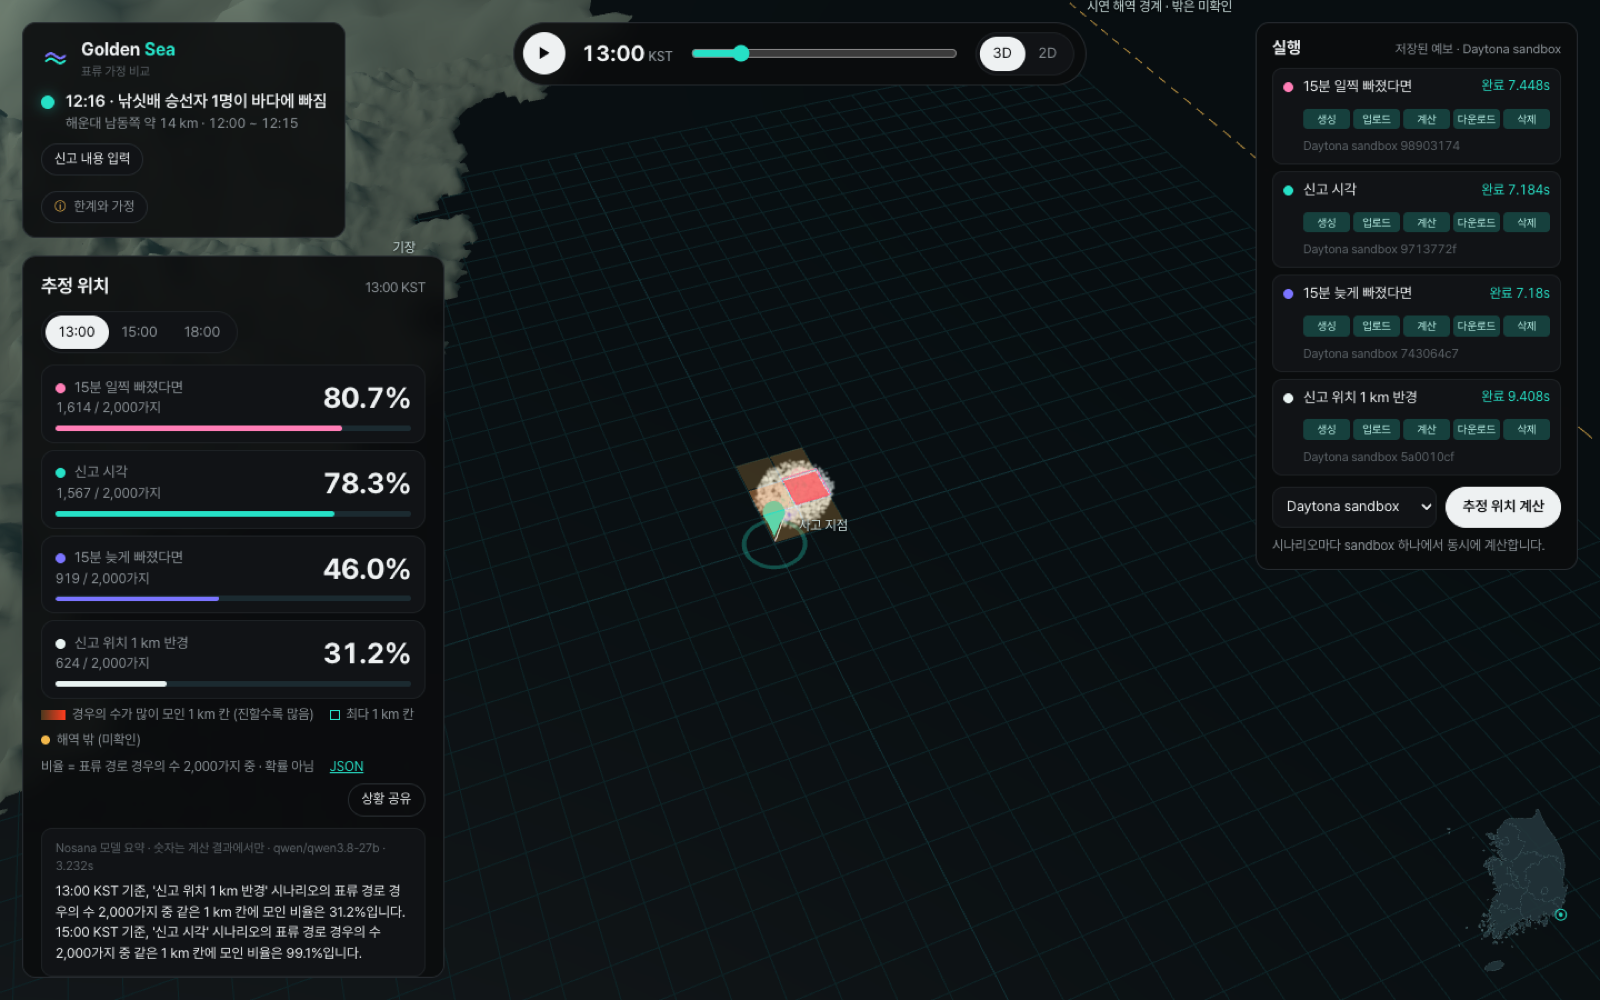
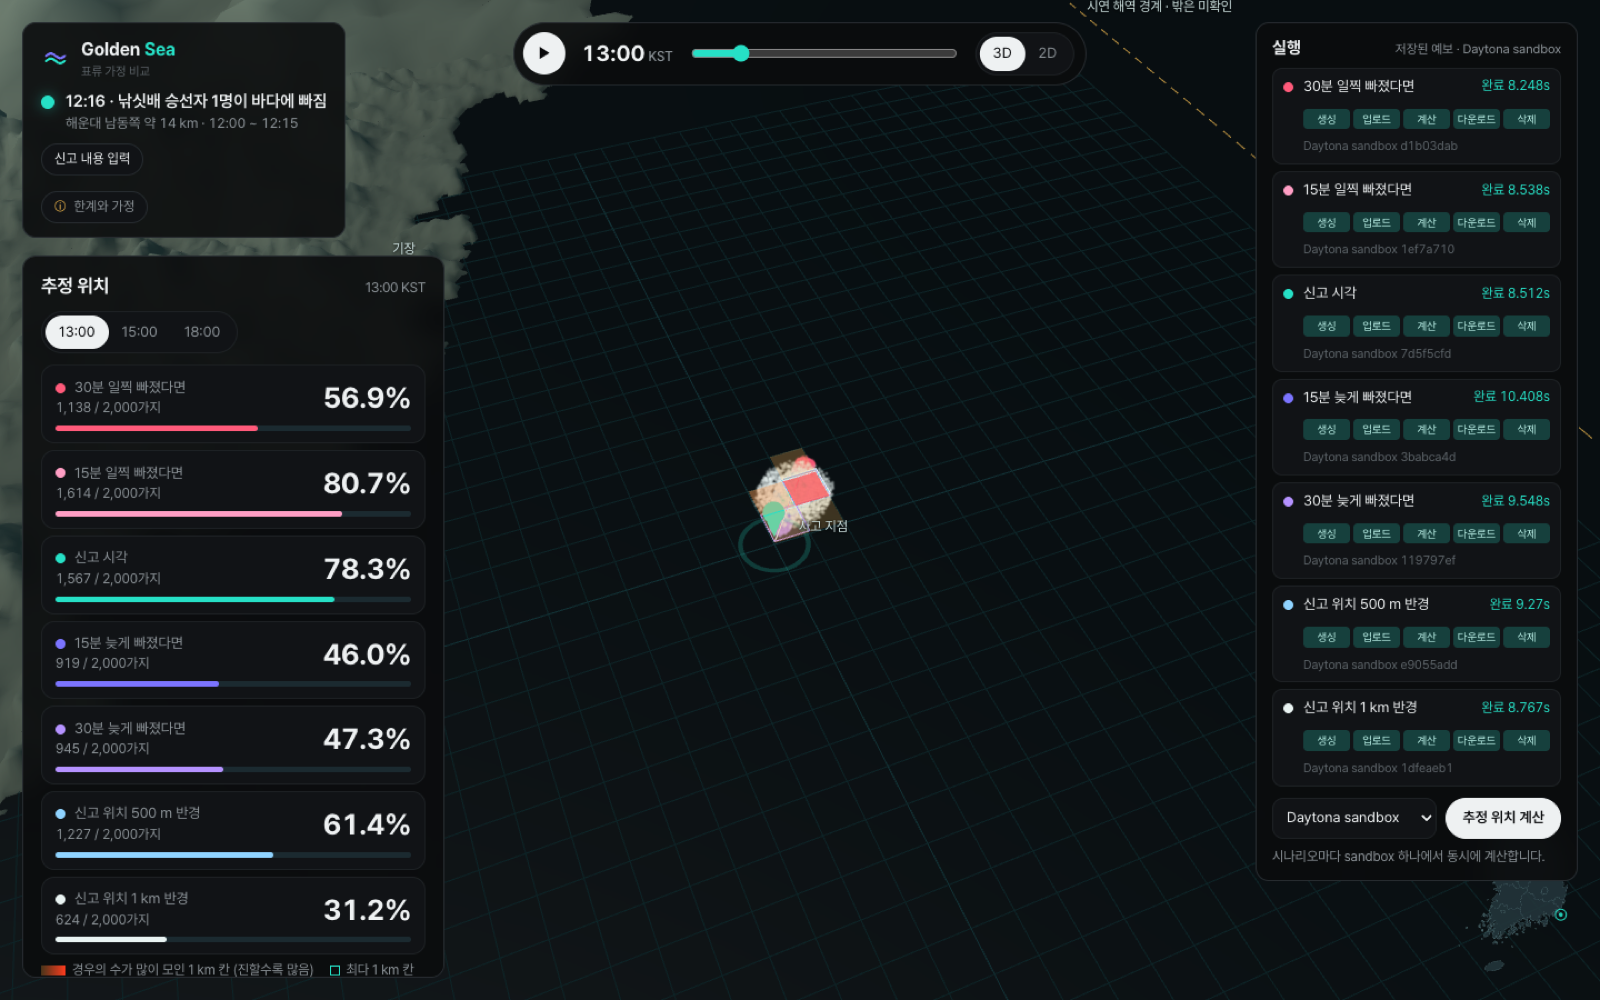
feat: seven cases (fall time -30/-15/0/+15/+30 min, radius 250/500/1000 m) in seven Daytona sandboxes

diff --git a/web/index.html b/web/index.html
@@ -66,10 +66,10 @@ section{border-top:1px solid var(--rule);padding:96px 0}
   <div class="meta"><span><b>부산 앞바다</b> 가상 사고</span><span><b>Daytona</b> sandbox</span><span><b>Nosana</b> 요약</span><span>Daytona HackSprint Seoul · 2026.10.18</span></div>
   <h1>해상 실종자<br>위치 추정</h1>
   <div class="intro">
-    <p>신고 하나로 표류 위치를 여러 경우로 계산합니다. 빠진 시각 ±15분과 위치 반경 1 km를 함께 봅니다.</p>
+    <p>신고 하나로 표류 위치를 일곱 가지 경우로 계산합니다. 빠진 시각 ±30분과 위치 반경 1 km까지 함께 봅니다.</p>
     <div class="cta"><a class="btn" href="app.html">데모 열기 →</a><a class="link" href="https://github.com/currenjin/2026-10-daytona-hack-sprint">GitHub에서 코드 보기</a></div>
   </div>
-  <figure><img src="assets/hero.png" alt="Golden Sea 화면: 부산 앞바다 가상 사고의 세 시나리오 비교"><figcaption>해운대 남동쪽 가상 신고, 1시간 뒤 결과. Daytona sandbox 4개에서 계산하고 Nosana 모델이 요약했습니다.</figcaption></figure>
+  <figure><img src="assets/hero.png" alt="Golden Sea 화면: 부산 앞바다 가상 사고의 세 시나리오 비교"><figcaption>해운대 남동쪽 가상 신고, 1시간 뒤 결과. Daytona sandbox 7개에서 계산하고 Nosana 모델이 요약했습니다.</figcaption></figure>
 </div>
 
 <section id="problem"><div class="wrap">
@@ -88,19 +88,22 @@ section{border-top:1px solid var(--rule);padding:96px 0}
   <div class="label">방법</div>
   <div class="how">
     <div><div class="k">01</div><h3>신고 입력</h3><p>위치와 빠진 시각 범위</p></div>
-    <div><div class="k">02</div><h3>Daytona sandbox 4개</h3><p>시각 ±15분, 위치 반경 1 km를 동시에 계산. 각 6~10초</p></div>
+    <div><div class="k">02</div><h3>Daytona sandbox 7개</h3><p>빠진 시각 5가지, 위치 반경 3가지를 동시에 계산. 각 약 8~10초</p></div>
     <div><div class="k">03</div><h3>비교 · 요약 · 공유</h3><p>Nosana 두 줄 요약, 출동팀·상황실 공유 문구</p></div>
   </div>
 </div></section>
 
 <section id="result"><div class="wrap">
   <div class="split">
-    <div class="prose"><div class="label">결과 · 1시간 뒤</div><h2>15분, 1 km 차이로 31%에서 81%까지 갈립니다.</h2><p>표류 경로 경우의 수 2,000가지 중 같은 1 km 칸에 모인 비율입니다. 확률은 아닙니다.</p></div>
+    <div class="prose"><div class="label">결과 · 1시간 뒤</div><h2>시각과 반경에 따라 31%에서 81%까지 갈립니다.</h2><p>표류 경로 경우의 수 2,000가지 중 같은 1 km 칸에 모인 비율입니다. 확률은 아닙니다.</p></div>
     <div class="res">
-      <div class="row"><div class="n">15분 일찍 빠졌다면<span>11:45–12:15</span></div><div class="bar"><i style="width:80.7%;background:#ff7eb6"></i></div><div class="v">80.7%</div></div>
-      <div class="row"><div class="n">신고 시각<span>12:00–12:15</span></div><div class="bar"><i style="width:78.35%;background:var(--teal)"></i></div><div class="v">78.3%</div></div>
-      <div class="row"><div class="n">15분 늦게 빠졌다면<span>12:00–12:30</span></div><div class="bar"><i style="width:45.95%;background:var(--indigo)"></i></div><div class="v">46.0%</div></div>
-      <div class="row"><div class="n">신고 위치 1 km 반경<span>12:00–12:15</span></div><div class="bar"><i style="width:31.2%;background:var(--white)"></i></div><div class="v">31.2%</div></div>
+      <div class="row"><div class="n">30분 일찍 빠졌다면<span>11:30–12:15</span></div><div class="bar"><i style="width:56.9%;background:#ff5a7a"></i></div><div class="v">56.9%</div></div>
+      <div class="row"><div class="n">15분 일찍 빠졌다면<span>11:45–12:15</span></div><div class="bar"><i style="width:80.7%;background:#ff9ec4"></i></div><div class="v">80.7%</div></div>
+      <div class="row"><div class="n">신고 시각<span>12:00–12:15 · 반경 250 m</span></div><div class="bar"><i style="width:78.35%;background:#26e0c6"></i></div><div class="v">78.3%</div></div>
+      <div class="row"><div class="n">15분 늦게 빠졌다면<span>12:00–12:30</span></div><div class="bar"><i style="width:45.95%;background:#7b74ff"></i></div><div class="v">46.0%</div></div>
+      <div class="row"><div class="n">30분 늦게 빠졌다면<span>12:00–12:45</span></div><div class="bar"><i style="width:47.25%;background:#b592ff"></i></div><div class="v">47.3%</div></div>
+      <div class="row"><div class="n">신고 위치 500 m 반경<span>12:00–12:15</span></div><div class="bar"><i style="width:61.35%;background:#8fd3ff"></i></div><div class="v">61.4%</div></div>
+      <div class="row"><div class="n">신고 위치 1 km 반경<span>12:00–12:15</span></div><div class="bar"><i style="width:31.2%;background:#e9f3f2"></i></div><div class="v">31.2%</div></div>
     </div>
   </div>
 </div></section>

diff --git a/web/app.js b/web/app.js
@@ -1,10 +1,10 @@
 import * as THREE from 'three';
 import { OrbitControls } from 'three/addons/controls/OrbitControls.js';
 
-const SIDS = ['S5', 'S0', 'S2', 'S1'];
-const COLORS = { S0: 0x26e0c6, S1: 0xe9f3f2, S2: 0x7b74ff, S5: 0xff7eb6 };
-const CSS_COLORS = { S0: '#26e0c6', S1: '#e9f3f2', S2: '#7b74ff', S5: '#ff7eb6' };
-const LABELS = { S5: '15분 일찍 빠졌다면', S0: '신고 시각', S2: '15분 늦게 빠졌다면', S1: '신고 위치 1 km 반경' };
+const SIDS = ['S6', 'S5', 'S0', 'S2', 'S7', 'S8', 'S1'];
+const COLORS = { S6: 0xff5a7a, S5: 0xff9ec4, S0: 0x26e0c6, S2: 0x7b74ff, S7: 0xb592ff, S8: 0x8fd3ff, S1: 0xe9f3f2 };
+const CSS_COLORS = { S6: '#ff5a7a', S5: '#ff9ec4', S0: '#26e0c6', S2: '#7b74ff', S7: '#b592ff', S8: '#8fd3ff', S1: '#e9f3f2' };
+const LABELS = { S6: '30분 일찍 빠졌다면', S5: '15분 일찍 빠졌다면', S0: '신고 시각', S2: '15분 늦게 빠졌다면', S7: '30분 늦게 빠졌다면', S8: '신고 위치 500 m 반경', S1: '신고 위치 1 km 반경' };
 const R = 6371000, LAT0 = 35.1, LON0 = 129.3, COS = Math.cos(LAT0 * Math.PI / 180);
 const toX = lon => (lon - LON0) * Math.PI / 180 * R * COS / 1000;   // km east
 const toZ = lat => -(lat - LAT0) * Math.PI / 180 * R / 1000;        // km, -north
@@ -115,7 +115,7 @@ for (const sid of SIDS) {
   pts.visible = false; pts.frustumCulled = false; scene.add(pts); clouds[sid] = pts;
 }
 
-const exitGeo = new THREE.BufferGeometry(); exitGeo.setAttribute('position', new THREE.Float32BufferAttribute(new Float32Array(8000 * 3), 3));
+const exitGeo = new THREE.BufferGeometry(); exitGeo.setAttribute('position', new THREE.Float32BufferAttribute(new Float32Array(14000 * 3), 3));
 const exits = new THREE.Points(exitGeo, new THREE.PointsMaterial({ color: 0xf2b84b, size: 0.32, map: tex, transparent: true, opacity: 0.85, depthWrite: false }));
 exits.frustumCulled = false; scene.add(exits);
 
@@ -124,7 +124,7 @@ const cellBoxes = {}, trails = {}, centroids = {};
 for (const sid of SIDS) {
   const sq = new THREE.LineLoop(new THREE.BufferGeometry().setFromPoints([[0, 0], [1, 0], [1, 1], [0, 1]].map(([a, b]) => new THREE.Vector3(a, 0, -b))),
     new THREE.LineBasicMaterial({ color: COLORS[sid], transparent: true, opacity: 1 }));
-  sq.position.y = 0.08 + { S0: 0.02, S1: 0.01, S2: 0.03, S5: 0.04 }[sid]; sq.visible = false; scene.add(sq); cellBoxes[sid] = sq;
+  sq.position.y = 0.08 + 0.01 * SIDS.indexOf(sid); sq.visible = false; scene.add(sq); cellBoxes[sid] = sq;
   const fill = new THREE.Mesh(new THREE.PlaneGeometry(1, 1), new THREE.MeshBasicMaterial({ color: COLORS[sid], transparent: true, opacity: 0.12, depthWrite: false, side: THREE.DoubleSide }));
   fill.rotation.x = -Math.PI / 2; fill.position.set(0.5, -0.02, -0.5); sq.add(fill);
   const tg = new THREE.BufferGeometry(); tg.setAttribute('position', new THREE.Float32BufferAttribute(new Float32Array(37 * 3), 3));
@@ -226,7 +226,7 @@ function setFrame(f) {
     const F = r.frames[Math.round(f)];
     for (let k = 0; k < 2000; k++) if (F.s[k] === 'O') { ea[n * 3] = F.xy[2 * k] / 1000; ea[n * 3 + 1] = 0.05; ea[n * 3 + 2] = -F.xy[2 * k + 1] / 1000; n++; }
   }
-  for (let k = n; k < 8000; k++) ea[k * 3 + 1] = -50;
+  for (let k = n; k < 14000; k++) ea[k * 3 + 1] = -50;
   exitGeo.attributes.position.needsUpdate = true;
   for (const sid of SIDS) {
     const tl = trails[sid]; tl.visible = !!centroids[sid];

diff --git a/goldensea/briefing.py b/goldensea/briefing.py
@@ -29,7 +29,7 @@ def summarise(results: list[dict]) -> dict:
     ok, why = configured()
     if not ok:
         return {"status": "NOT_CONFIGURED", "reason": why}
-    names = {"S5": "15분 일찍 빠졌다면", "S0": "신고 시각", "S2": "15분 늦게 빠졌다면", "S1": "신고 위치 1 km 반경"}
+    names = {"S6": "30분 일찍 빠졌다면", "S5": "15분 일찍 빠졌다면", "S0": "신고 시각", "S2": "15분 늦게 빠졌다면", "S7": "30분 늦게 빠졌다면", "S8": "신고 위치 500 m 반경", "S1": "신고 위치 1 km 반경"}
     facts = [{"scenario": names.get(r.get("scenario", {}).get("id"), r.get("scenario", {}).get("id")),
               "evaluations": [{"at": e["at"][11:16] + " KST", "top_cell_fraction": e["top_cell_fraction"],
                                "unresolved_fraction": e["unresolved_fraction"]} for e in r.get("evaluations", [])]}

diff --git a/goldensea/scenarios.py b/goldensea/scenarios.py
@@ -56,6 +56,9 @@ SCENARIOS = {
     "S4": Scenario("S4", "바람 계수 0.03", 250, LATEST, 0.03, "alpha", required=False),
     # demo addition outside the frozen criteria: fell up to 15 minutes earlier
     "S5": Scenario("S5", "15분 일찍", 250, LATEST, 0.0, "earliest_release", required=False, earliest_shift_min=-15),
+    "S6": Scenario("S6", "30분 일찍", 250, LATEST, 0.0, "earliest_release", required=False, earliest_shift_min=-30),
+    "S7": Scenario("S7", "30분 늦게", 250, datetime(2026, 10, 18, 12, 45, tzinfo=KST), 0.0, "latest_release", required=False),
+    "S8": Scenario("S8", "반경 500 m", 500, LATEST, 0.0, "radius_m", required=False),
 }
 
 

diff --git a/server.py b/server.py
@@ -146,7 +146,7 @@ class Handler(SimpleHTTPRequestHandler):
         except json.JSONDecodeError:
             return self._json({"status": "INPUT_ERROR", "error": "invalid JSON"}, 400)
         if self.path == "/api/run":
-            scen = body.get("scenarios") or ["S5", "S0", "S2", "S1"]
+            scen = body.get("scenarios") or ["S6", "S5", "S0", "S2", "S7", "S8", "S1"]
             ex = body.get("executor", "local")
             src = body.get("source", "cache")
             inc = body.get("incident", "A")

diff --git a/README.md b/README.md
@@ -1,18 +1,18 @@
 # Golden Sea
 
 Estimate where a person lost at sea has drifted, from a single report.
-A report gives only a rough place and time, so Golden Sea computes several cases at once (fell 15 min earlier, reported time, fell 15 min later, 1 km position radius) and shows how far apart the results are.
+A report gives only a rough place and time, so Golden Sea computes seven cases at once (fell 30 or 15 min earlier, reported time, 15 or 30 min later, 500 m and 1 km position radius) and shows how far apart the results are.
 
-![Golden Sea: four cases computed in Daytona sandboxes with a Nosana summary](docs/screenshot.png)
+![Golden Sea: seven cases computed in Daytona sandboxes with a Nosana summary](docs/screenshot.png)
 
 | | |
 | --- | --- |
 | Problem | From 2021 to June 2026, 165 of 256 people missing at sea or on the coast in Korea (64.5%) have not been found (Korea Coast Guard data via Rep. Moon Dae-rim, Financial News 2026-09-04). In the Sept 2026 Oryukdo tugboat capsizing, one crew member was found near Pohang, about 100 km from the search area (Nocut News 2026-09-10). |
 | Flow | Landing → enter a simulated report (three different incidents off Busan) → estimate → 6-hour 3D/2D playback with the densest 1 km cells highlighted → share text for rescue crews and the control room. |
-| Result | Report ~14 km SE of Haeundae, one hour later, share of 2,000 drift paths in the same 1 km cell: fell 15 min earlier 80.7%, reported time 78.3%, fell 15 min later 46.0%, 1 km radius 31.2%. |
-| **Daytona** | One Daytona sandbox per case, four at once: create → upload engine, contracts and cached forecast → run → download → delete. Measured about 6–10 s each. |
+| Result | Report ~14 km SE of Haeundae, one hour later, share of 2,000 drift paths in the same 1 km cell: 30 min earlier 56.9%, 15 min earlier 80.7%, reported time 78.3%, 15 min later 46.0%, 30 min later 47.3%, 500 m radius 61.4%, 1 km radius 31.2%. |
+| **Daytona** | One Daytona sandbox per case, seven at once: create → upload engine, contracts and cached forecast → run → download → delete. Measured about 8–10 s each. |
 | **Nosana** | `qwen/qwen3.8-27b` on Nosana inference writes a two-line summary from the computed numbers only (about 3 s). |
-| Limits | Simulated reports, cached Open-Meteo current forecast (SHA-256 pinned), one current value per incident, coastline accuracy unverified. Shares are not probabilities. Not official search guidance. The frozen verification criteria cover the first incident (S0–S2, 34.9–35.3°N, 129.0–129.4°E); the -15 min case, incidents 2–3 and the widened demo area are marked `PRESET_NOT_IN_FROZEN_CRITERIA`. |
+| Limits | Simulated reports, cached Open-Meteo current forecast (SHA-256 pinned), one current value per incident, coastline accuracy unverified. Shares are not probabilities. Not official search guidance. The frozen verification criteria cover the first incident (S0–S2, 34.9–35.3°N, 129.0–129.4°E); the added time and radius cases, incidents 2–3 and the widened demo area are marked `PRESET_NOT_IN_FROZEN_CRITERIA`. |
 
 Built at Daytona HackSprint Seoul, 2026-10-18.
 
@@ -20,10 +20,10 @@ Built at Daytona HackSprint Seoul, 2026-10-18.
 
 ## 한국어
 
-해상 실종 신고 하나로 실종자가 표류했을 위치를 추정합니다. 신고로는 위치와 시각을 대략만 알기 때문에, 빠진 시각 ±15분과 위치 반경 1 km를 바꾼 네 가지 경우를 동시에 계산해 나란히 보여 줍니다.
+해상 실종 신고 하나로 실종자가 표류했을 위치를 추정합니다. 신고로는 위치와 시각을 대략만 알기 때문에, 빠진 시각 ±30분(5가지)과 위치 반경 250 m·500 m·1 km를 바꾼 일곱 가지 경우를 동시에 계산해 나란히 보여 줍니다.
 
 - 흐름: 랜딩 → 가상 신고 입력(부산 앞바다 서로 다른 사고 3건) → 추정 위치 계산 → 6시간 재생(3D/2D, 경우의 수가 많이 모인 1 km 칸 표시) → 출동팀·상황실 공유 문구
-- 계산: 경우마다 Daytona sandbox 하나, 4개 동시. Nosana 모델이 계산된 숫자로만 두 줄 요약
+- 계산: 경우마다 Daytona sandbox 하나, 7개 동시. Nosana 모델이 계산된 숫자로만 두 줄 요약
 - 표류 경로 경우의 수 2,000가지 중 같은 1 km 칸에 모인 비율이며 발견·생존 확률이 아닙니다. 공식 수색 안내가 아닙니다.
 
 ## 실행
